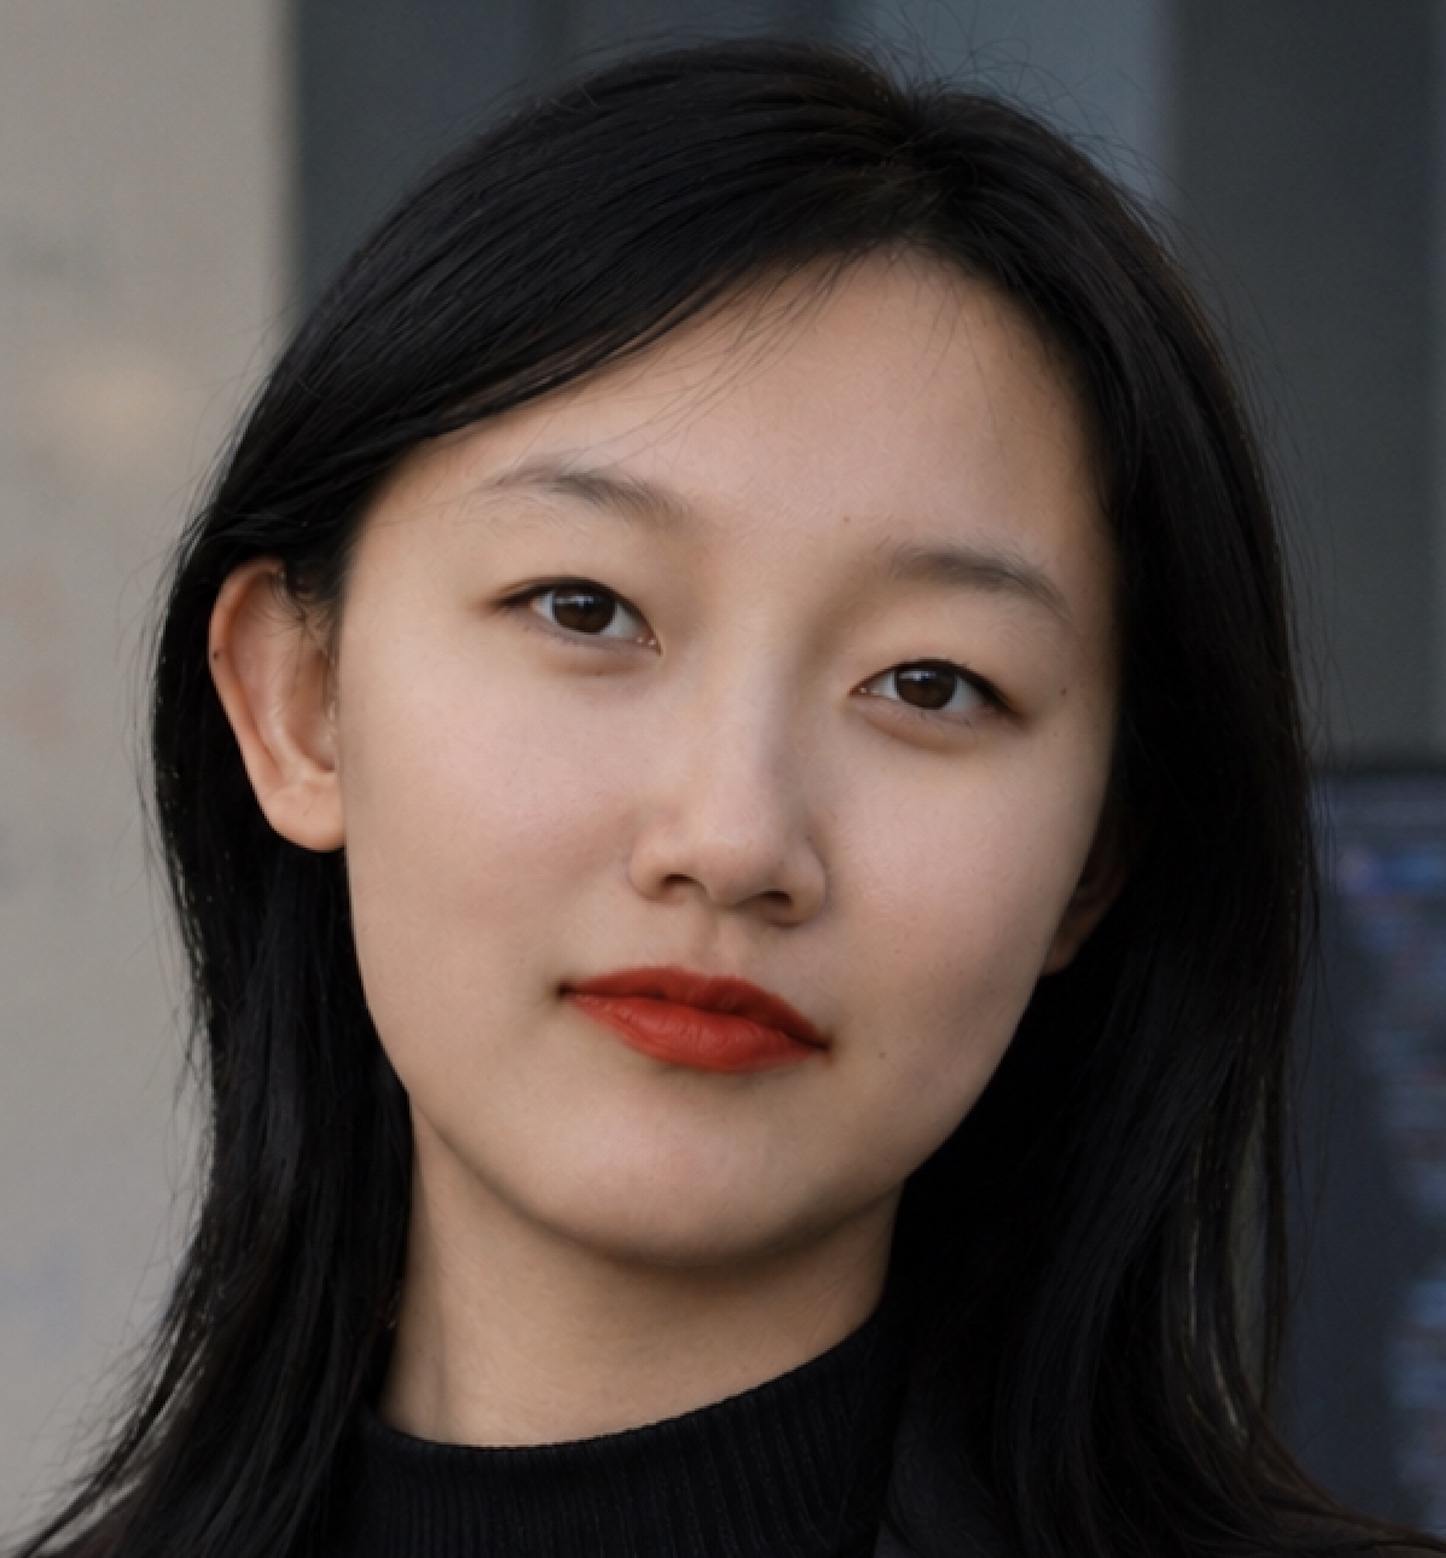
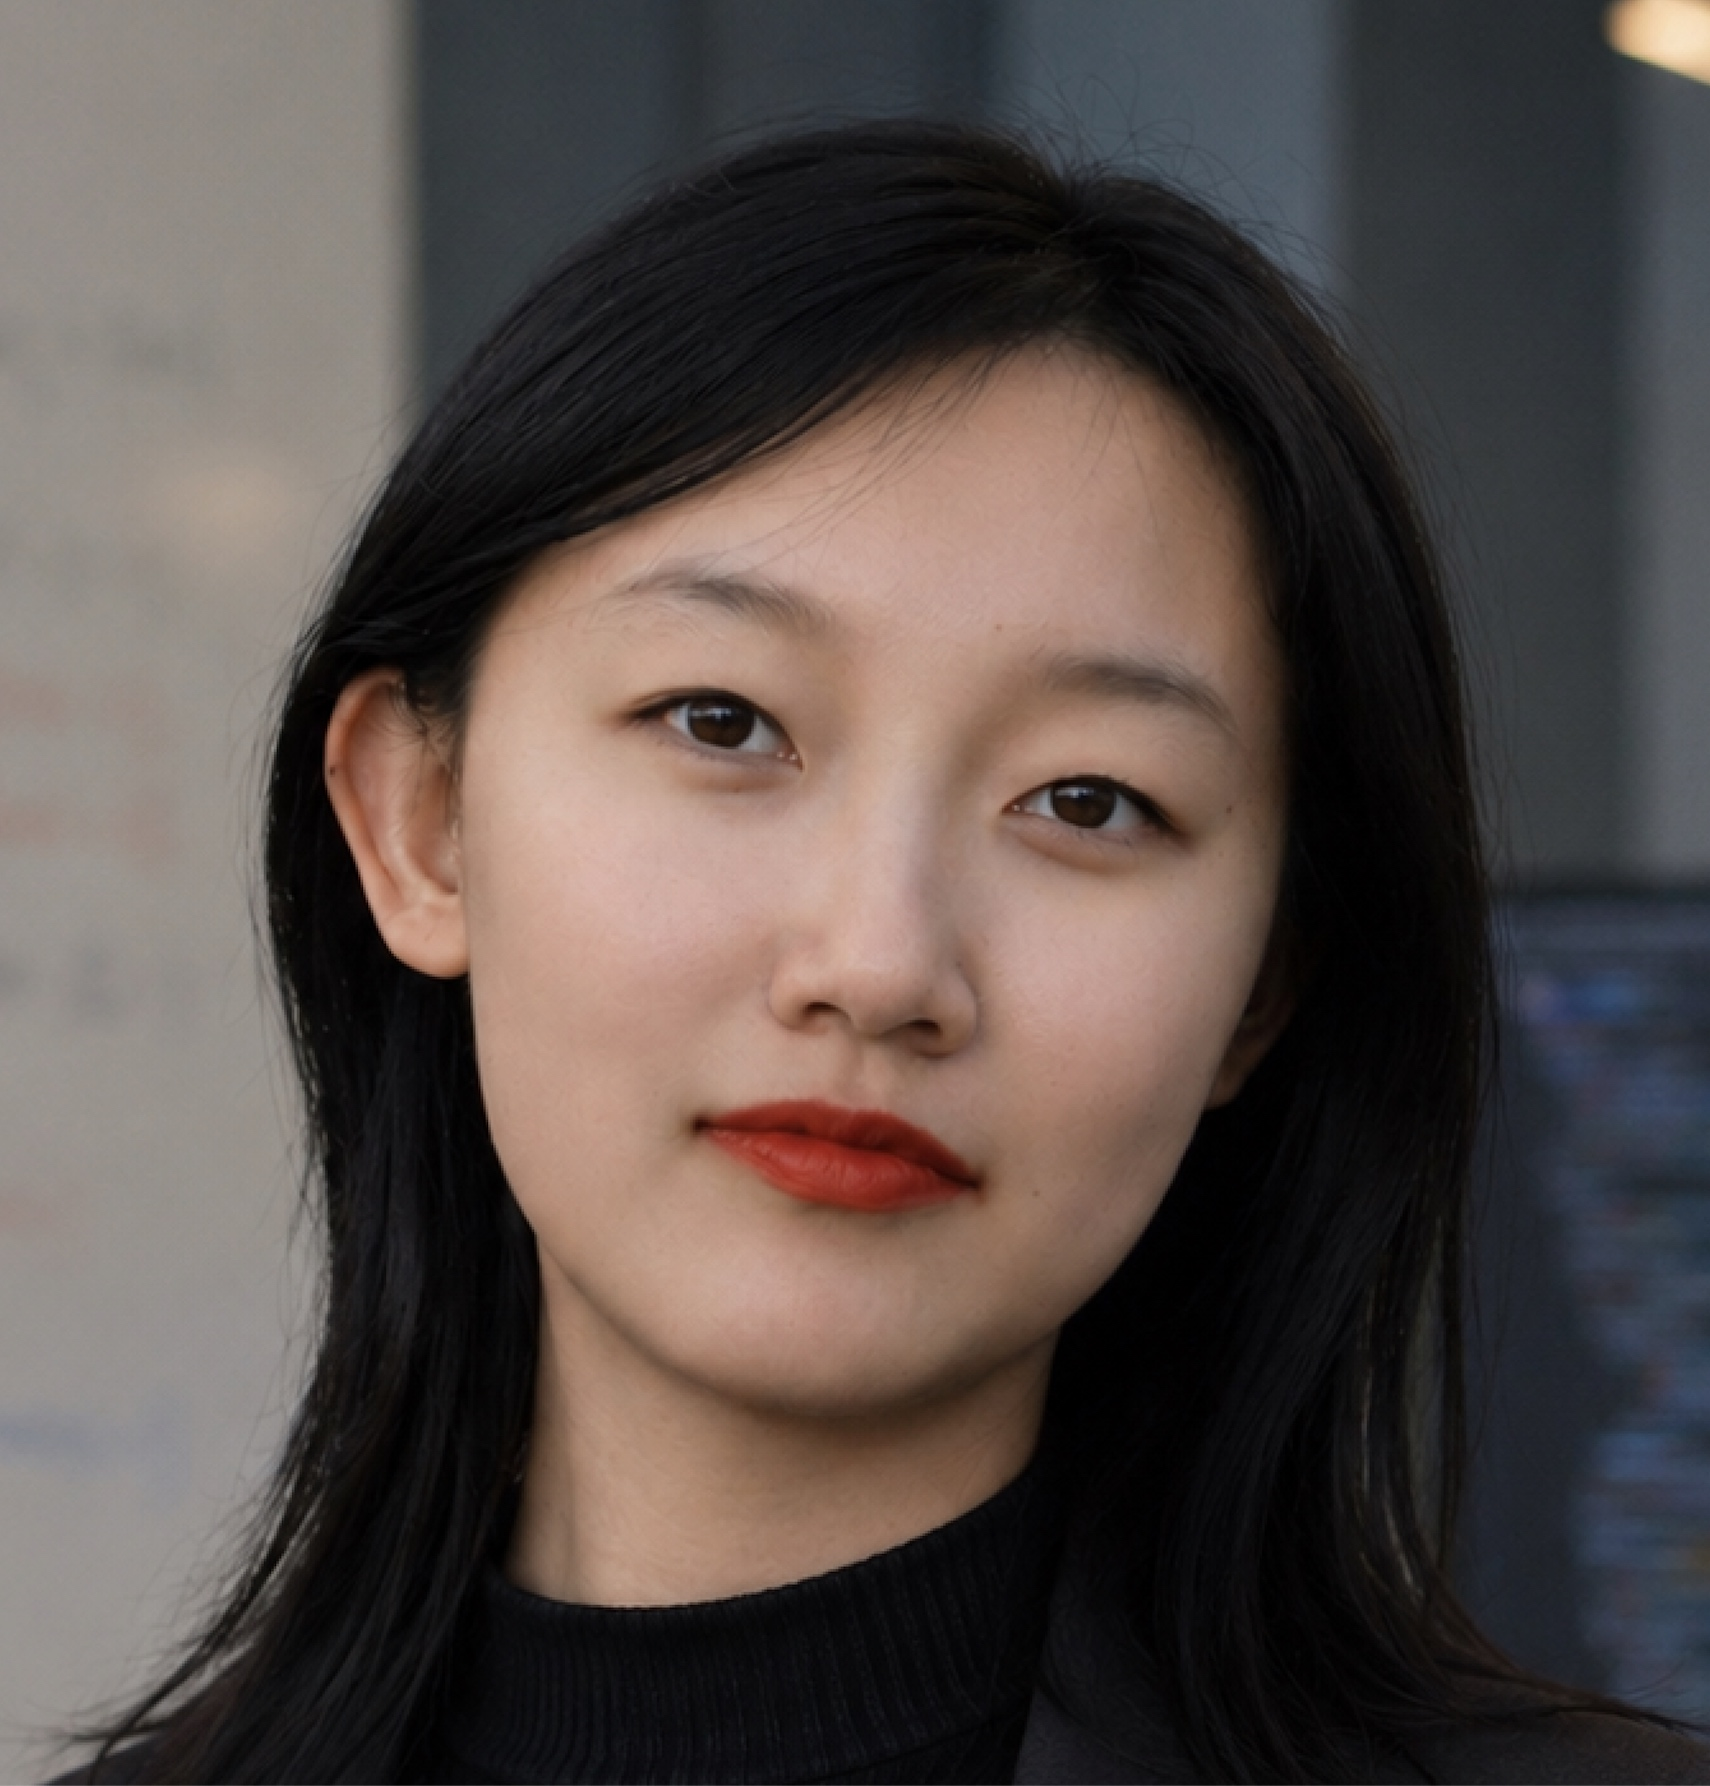
Correct dates and details from Luyang's review
Graduate study began Sep 2026, not Aug 2025 as previously inferred, so
Princeton's B.A. is 2026 and the bio returns to "first-year". Merge the
FetchBench and CoRL entries into a single poster presentation.

Rename the tactile card to "perception", link the visual-tactile
manuscript to its OpenReview PDF, correct the IAS role to local host,
and add Sigma Xi under a new Honors section.

diff --git a/content/cv/_index.md b/content/cv/_index.md
@@ -9,14 +9,14 @@ description = "Education, research, publications, and service."
 ## Education
 
 <div class="entry">
-  <div class="when">2025 –</div>
+  <div class="when">2026 –</div>
   <div class="what">
     <strong>University of Michigan</strong>
     <div class="where">Graduate study, Computer Science and Engineering</div>
   </div>
 </div>
 <div class="entry">
-  <div class="when">– 2025</div>
+  <div class="when">– 2026</div>
   <div class="what">
     <strong>Princeton University</strong>
     <div class="where">B.A. in Mathematics</div>
@@ -47,19 +47,30 @@ description = "Education, research, publications, and service."
 
 See the [research page](/research/) for the full list.
 
+## Honors
+
+<div class="entry">
+  <div class="when">2026</div>
+  <div class="what">
+    <strong>Elected to Sigma Xi</strong>
+    <div class="where">Princeton University</div>
+    <p class="detail">The scientific research honor society; election awarded at graduation.</p>
+  </div>
+</div>
+
 ## Service &amp; Activities
 
 <div class="entry">
   <div class="when"></div>
   <div class="what">
-    <strong>Volunteer, Women and Mathematics Program</strong>
+    <strong>Local host, Women and Mathematics Program</strong>
     <div class="where">Institute for Advanced Study, Princeton</div>
   </div>
 </div>
 <div class="entry">
   <div class="when">2024</div>
   <div class="what">
-    <strong>Attendee, Conference on Robot Learning (CoRL)</strong>
+    <strong>Poster presentation, Conference on Robot Learning (CoRL)</strong>
     <div class="where">Munich, Germany</div>
   </div>
 </div>

diff --git a/content/research/infinivitac.md b/content/research/infinivitac.md
@@ -2,12 +2,12 @@
 title = "Learning Open-World Visual–Tactile Grasp Stability Prediction with Synthetic Data"
 date = 2026-01-01
 draft = false
-venue = ""
+venue = "Manuscript"
 authors_before = "Beining Han*, "
 authors_self = "Gan Luyang*"
 authors_after = ", Derek Geng, Abhishek Joshi, Jia Deng"
 venue_note = "* equal contribution"
-paper = ""
+paper = "https://openreview.net/pdf?id=2Pv41Ey3jK"
 code = ""
 website = ""
 tldr = "Predicting whether a grasp will hold, from vision and touch together, trained on synthetic data so that it generalizes to objects never seen during training."
@@ -16,5 +16,3 @@ tldr = "Predicting whether a grasp will hold, from vision and touch together, tr
 Whether a grasp will hold is difficult to judge from vision alone. This work predicts grasp stability
 from vision and touch jointly, trained on synthetic data so that the model generalizes to open-world
 objects that were never seen during training.
-
-<p class="note">Add the paper and code links to this file's front matter once the preprint is public.</p>

diff --git a/content/_index.md b/content/_index.md
@@ -3,7 +3,7 @@ title = "About"
 date = 2026-09-13
 +++
 
-I am a graduate student in **Computer Science and Engineering at the University of Michigan**.
+I am a first-year graduate student in **Computer Science and Engineering at the University of Michigan**.
 I received my **B.A. in Mathematics from Princeton University**, where I was fortunate to work with
 Prof. [Jia Deng](https://pvl.cs.princeton.edu/), Prof. [Zhuang Liu](https://liuzhuang13.github.io/),
 Prof. [Marc Aurèle Gilles](https://ma-gilles.github.io/), and Prof. [Boris Hanin](https://boris-hanin.github.io/).
@@ -28,7 +28,7 @@ The fastest way to reach me is [email](mailto:gluyang@umich.edu).
     <p>Robotic manipulation and grasping, benchmarks that measure what policies can actually do in the world.</p>
   </div>
   <div class="card">
-    <h3>Tactile &amp; multimodal sensing</h3>
+    <h3>Tactile &amp; multimodal perception</h3>
     <p>Combining vision and touch to predict physical outcomes such as grasp stability in open-world settings.</p>
   </div>
   <div class="card">
